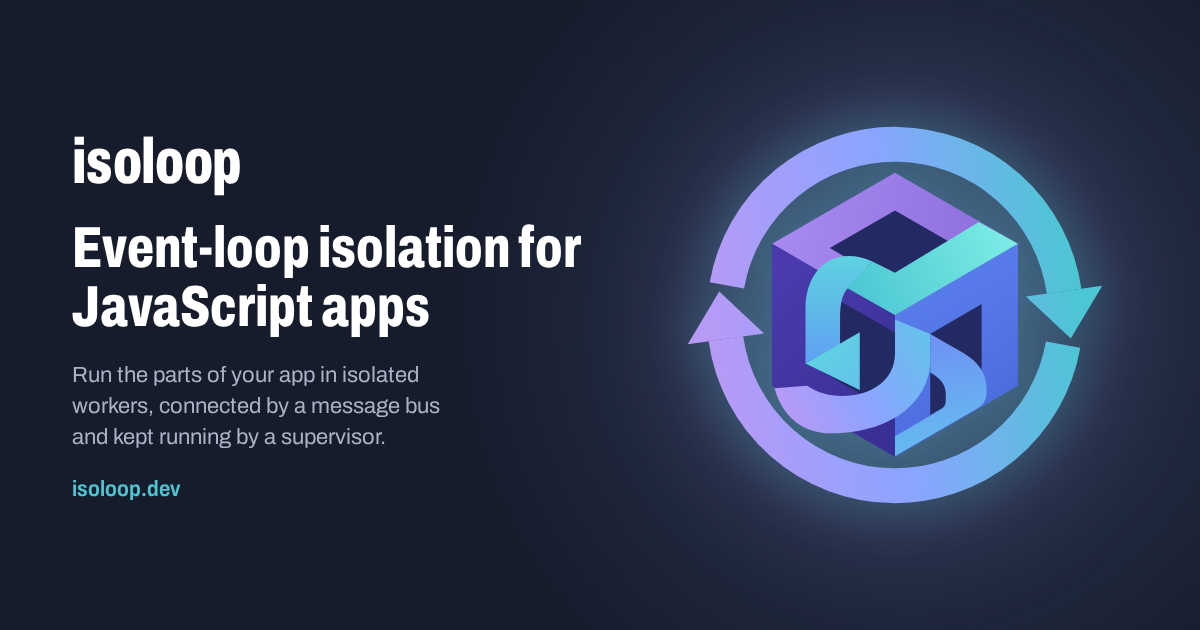
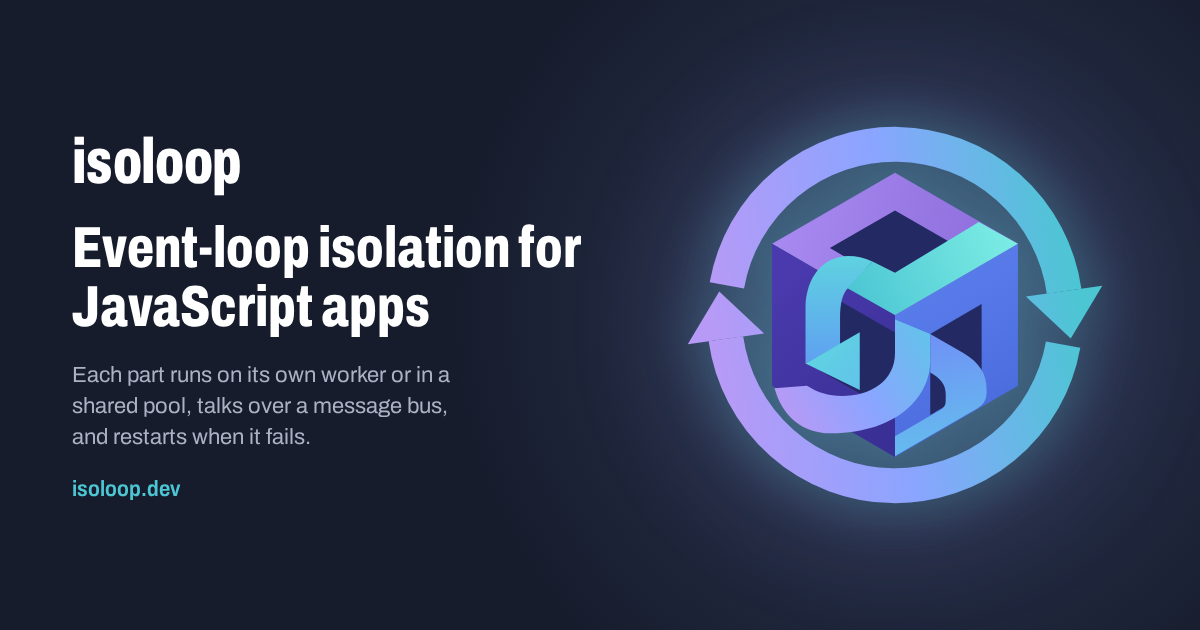
docs(brand): one shared message; the landing intro and link preview follow it
Adds a Messaging section to docs/brand.md (four points, the words to use, every surface that carries them), agreed with the maintainer on 2026-11-19. The landing intro, the meta description and the og card stop saying "isolated workers", which pools made inaccurate, and add the outcome.

Changed region(s): [[0.0617, 0.573, 0.37, 0.7238]]

diff --git a/apps/site/src/copy.ts b/apps/site/src/copy.ts
@@ -13,7 +13,7 @@ type Row = [string, ...string[]];
 
 export const site = {
   description:
-    'Event-loop isolation for JavaScript apps. An open-source TypeScript library that lets you run the parts of your app in isolated workers, connected by a message bus and kept running by a supervisor. Framework-agnostic, with React and Preact adapters.',
+    'Event-loop isolation for JavaScript apps. An open-source TypeScript library: each part of your app runs on its own worker or in a shared pool, talks over a message bus, and is restarted when it fails, while the rest keeps running.',
 };
 
 // The features themselves (their strip line, heading and section text, with
@@ -97,7 +97,7 @@ export const home = {
   title: 'Isoloop: event-loop isolation for JavaScript apps',
   intro: {
     heading: 'Event-loop isolation for JavaScript apps',
-    text: 'An open-source TypeScript library that lets you run the parts of your app in isolated workers, connected by a message bus and kept running by a supervisor. Framework-agnostic, with React and Preact adapters.',
+    text: 'An open-source TypeScript library. Each part of your app runs on its own worker or in a shared pool, talks only through a message bus that keeps its records, and is restarted by a supervisor when it fails. A block or a crash stays in its part, and the rest of the app keeps running. React, Preact or plain DOM.',
     primary: 'See the features',
     secondary: 'Examples',
   },

diff --git a/packages/ui/brand/social/cards.html b/packages/ui/brand/social/cards.html
@@ -8,8 +8,8 @@
     <div class="wm">isoloop</div>
     <div class="h">Event-loop isolation for JavaScript apps</div>
     <div class="sub">
-      Run the parts of your app in isolated workers, connected by a message bus and kept running by
-      a supervisor.
+      Each part runs on its own worker or in a shared pool, talks over a message bus, and restarts
+      when it fails.
     </div>
     <div class="url">isoloop.dev</div>
   </div>

diff --git a/docs/brand.md b/docs/brand.md
@@ -6,6 +6,30 @@ The logo, the wordmark, and where each version goes. Decided 2026-11-14 with the
 
 An isometric cube (*iso*) with a ribbon woven through it, running in and out of it. The cube is an isolate, contained on its own. The ribbon is the loop and the messages passing through. In the expressive version a cycle arrow goes around both: the loop running, and an isolate restarting.
 
+## Messaging
+
+Every text that says what Isoloop is tells the same four things, in this order, in its own words and at the length it has room for. Agreed with the maintainer on 2026-11-19.
+
+1. **Category:** event-loop isolation for JavaScript apps.
+2. **What:** an open-source TypeScript library. Each part of your app, UI or headless, runs on its own worker or in a shared pool.
+3. **How:** parts talk only through a message bus that keeps its records. A supervisor restarts a part that fails, and it catches up from the bus.
+4. **Outcome:** a block or a crash stays in its part, and the rest of the app keeps running.
+
+Where there's room, add the frameworks: React, Preact or plain DOM. Short texts, like the org and repo descriptions, carry points 1 to 3 condensed, and point 4 when it fits. Long texts, like the landing intro and the READMEs, carry all four.
+
+**Words:**
+- **Parts and isolates:** say "parts" in short texts. Long texts may say *isolate*, defined as a part on first use.
+- **Placement:** "on its own worker or in a shared pool". Not "in isolated workers": parts in a pool share one worker and one event loop.
+- **No runtime terms:** no "browser", "web app", "front-end" or "Web Worker" in these texts. Isoloop is meant to run in other JavaScript runtimes later. Guides and limits may name what the code uses today.
+- **Erlang/OTP:** "an Erlang/OTP-style kernel" only in long texts, never in the tagline or a description.
+- **No cost line in showcase texts** (the profile, the descriptions, bios). The cost belongs where things are measured: the site's costs table, the library README's limits, the docs and posts.
+
+**Where it's said:**
+- the GitHub org description and `isoloop/.github` `profile/README.md`
+- the `isoloop/isoloop` repo description and README intro
+- the site: the landing intro (`home.intro.text`) and the meta description (`site.description`) in `apps/site/src/copy.ts`, and the link-preview card (`packages/ui/brand/social/cards.html`)
+- the social repo's `VOICE.md`, which points here
+
 ## Two marks, one identity
 
 The logo is **responsive**: a compact mark for small places, and a fuller one where there's room. Both share the same cube and ribbon. The ring only appears where there's space for it.

diff --git a/.changeset/messaging-intro.md b/.changeset/messaging-intro.md
@@ -1,0 +1,5 @@
+---
+'site': patch
+---
+
+The landing intro and the meta description say what Isoloop is in the shared message (docs/brand.md, Messaging): each part of your app runs on its own worker or in a shared pool, talks over a message bus, and is restarted when it fails, while the rest keeps running. The link-preview card's line says the same.
